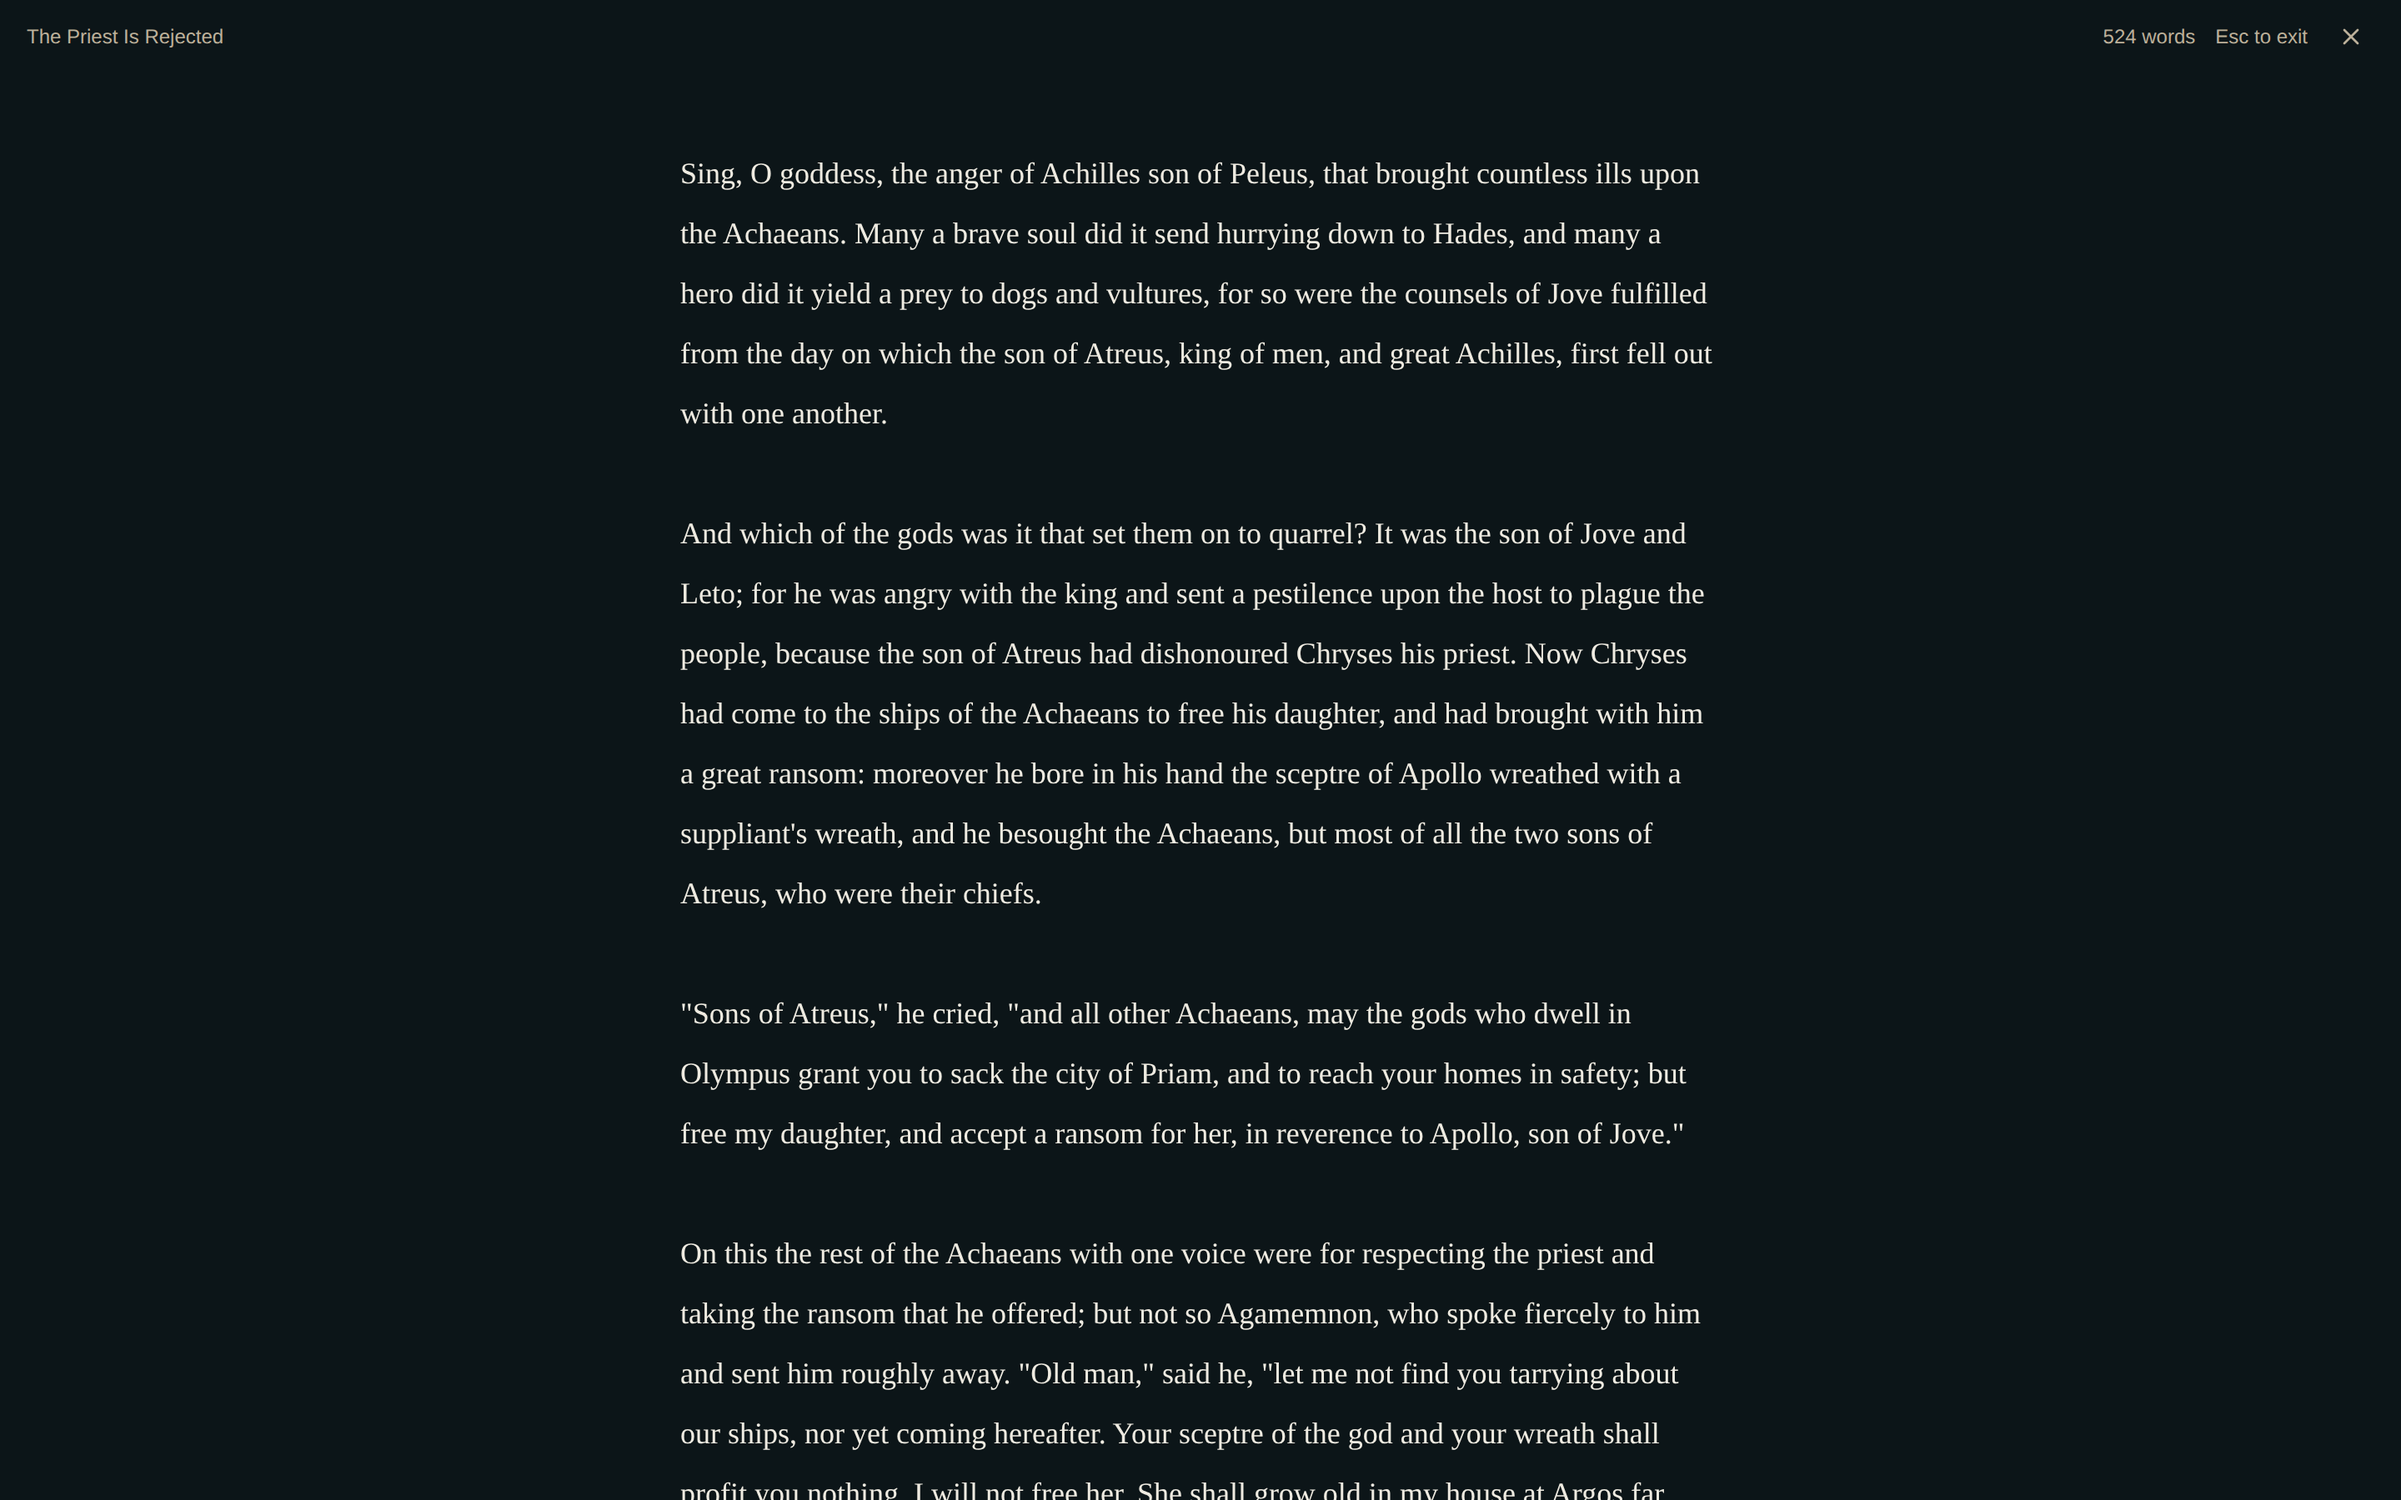
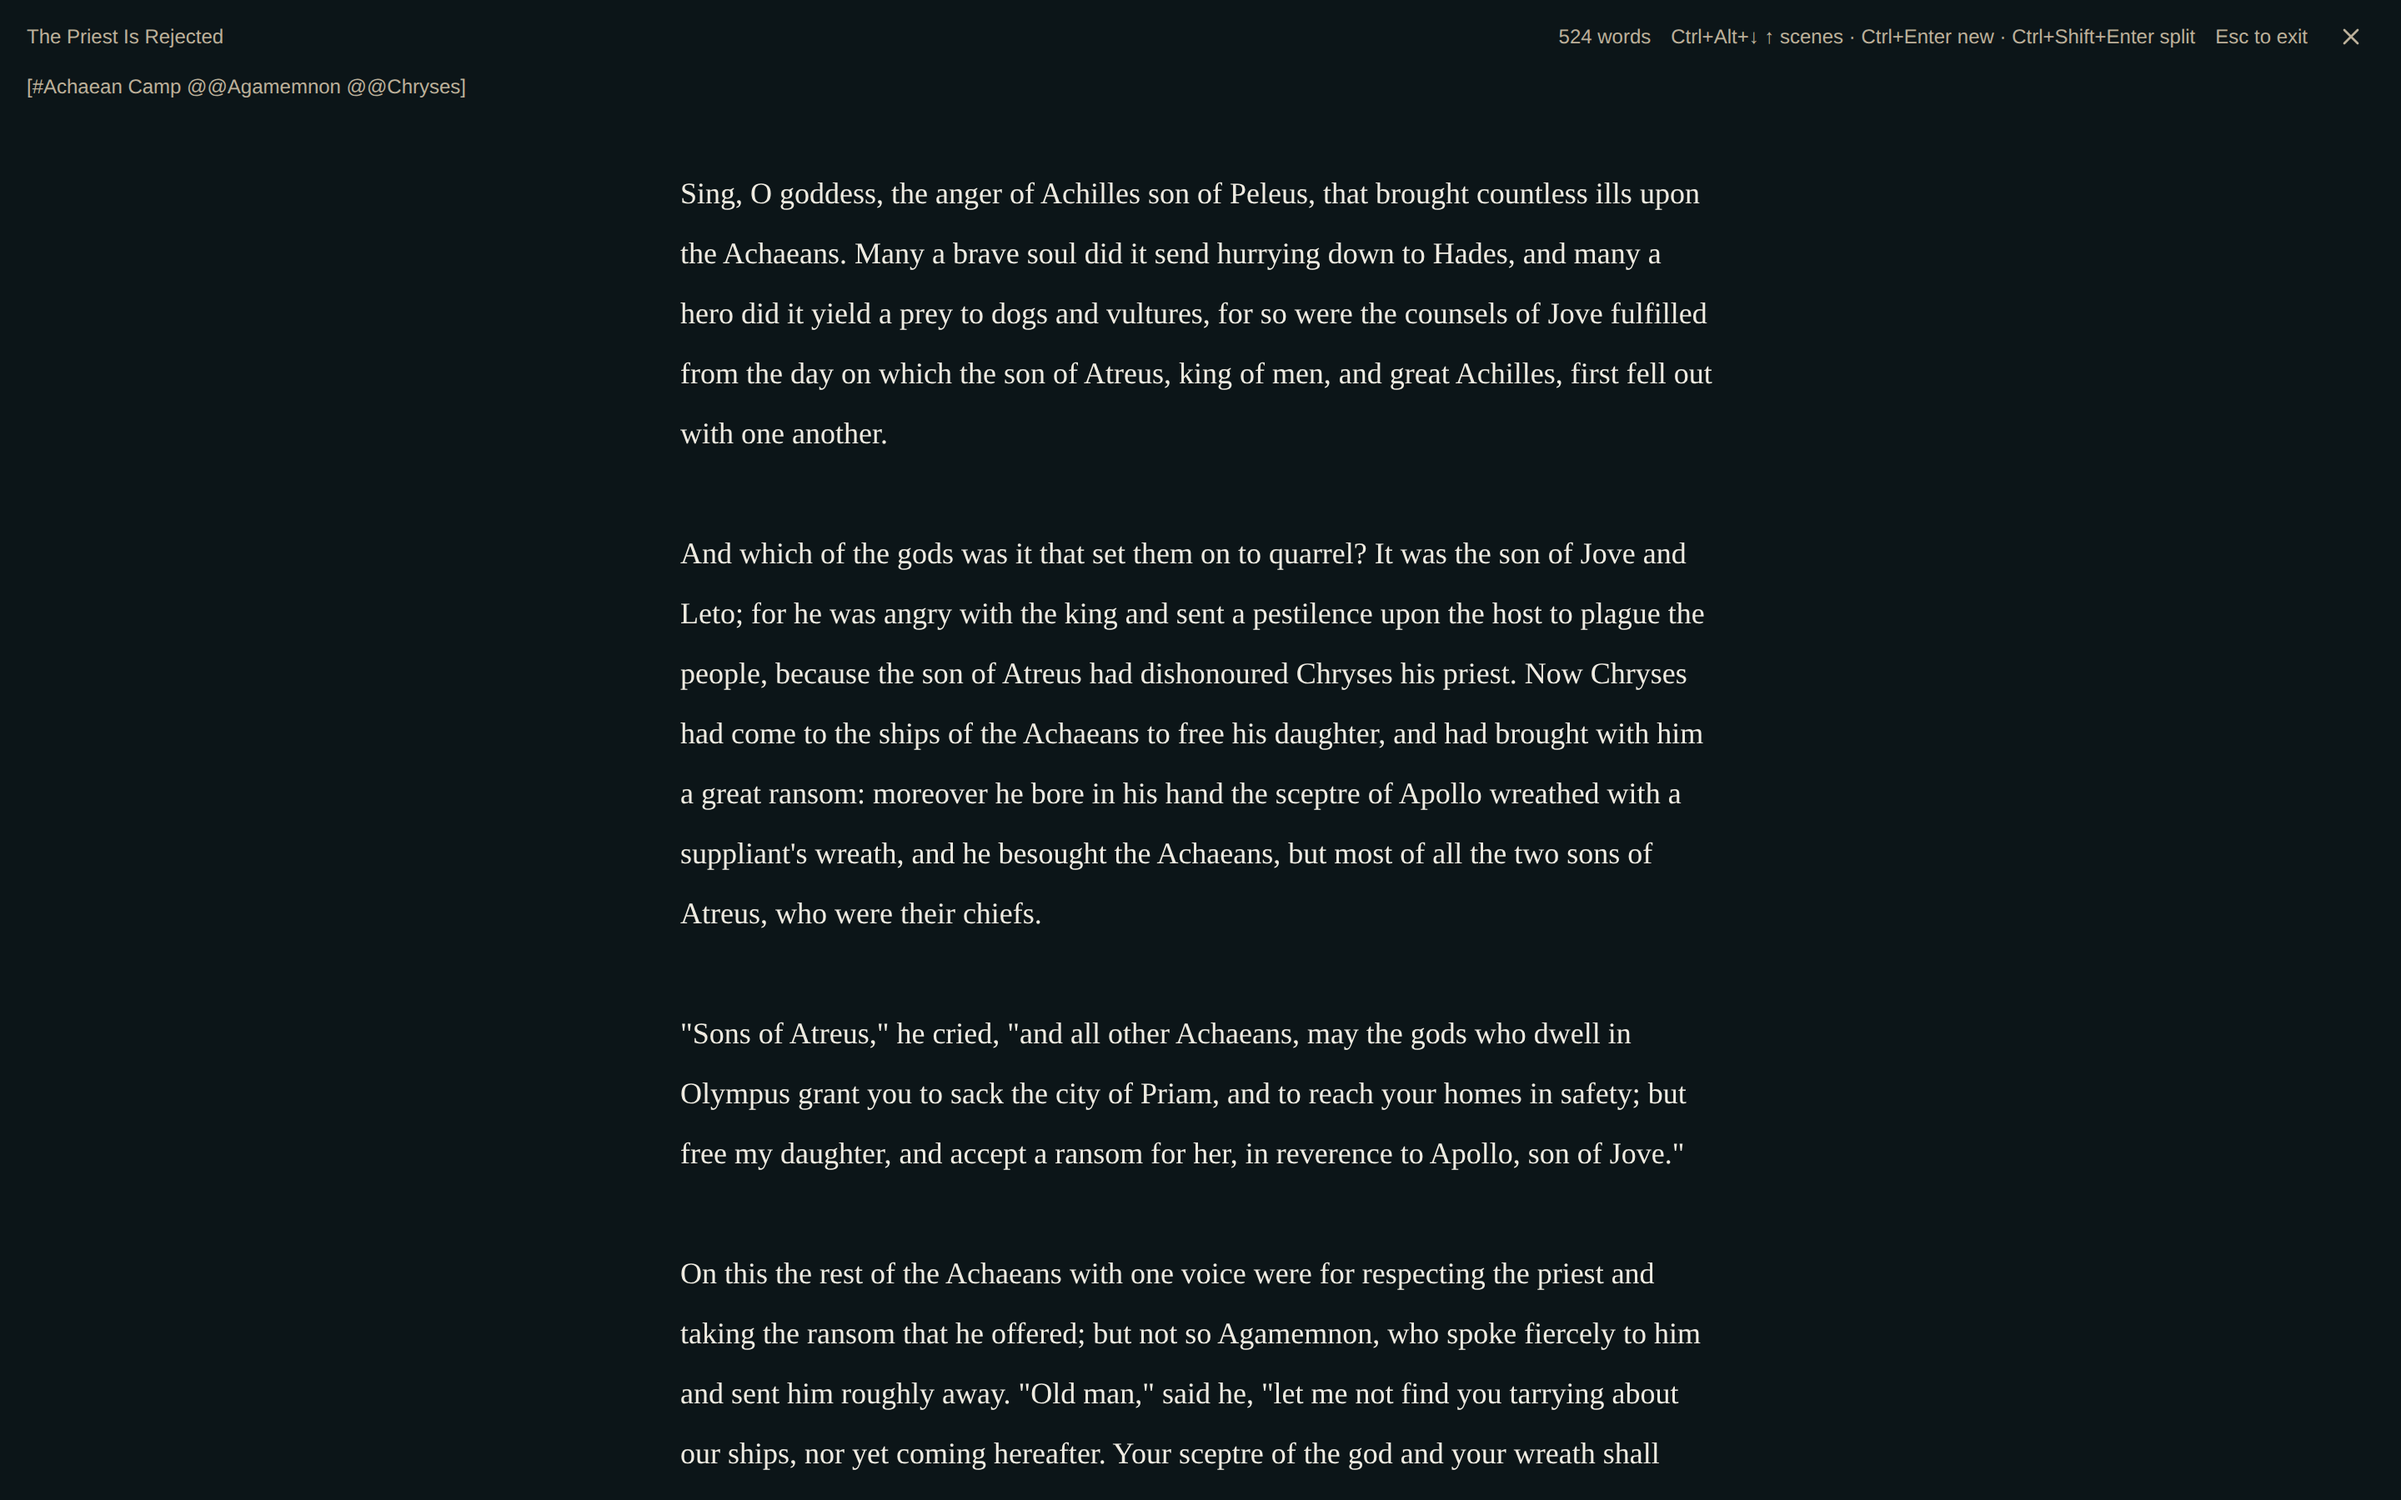
Split and join: the guide, the wiki, the keys in Help, two screenshots
The join dialog's possessive (“…”'s) read badly under a curly quote; it now
names the later scene directly.

Claude-Session: https://claude.ai/code/session_012HJuZ3q12imk2q9iq8d945

diff --git a/src/features/timeline/EventCard.tsx b/src/features/timeline/EventCard.tsx
@@ -656,7 +656,7 @@ export function EventCard({
                 open={joinOpen}
                 onOpenChange={setJoinOpen}
                 title={`Join “${nextTitle || 'the next scene'}” onto ${eventName}?`}
-                description={`Its prose is added to the end of this scene, and it stops being a scene of its own. Who and what is in it joins this one. Where both scenes recorded a state for the same character, item or place, the later one — “${nextTitle || 'the next scene'}”'s — is kept. Undo puts it all back.`}
+                description={`Its prose is added to the end of this scene, and it stops being a scene of its own. Who and what is in it joins this one. Where both scenes recorded a state for the same character, item or place, the one recorded in “${nextTitle || 'the next scene'}” is kept, since it comes later. Undo puts it all back.`}
                 confirmLabel="Join"
                 destructive={false}
                 onConfirm={onJoinNext}

diff --git a/src/features/help/HelpPanel.tsx b/src/features/help/HelpPanel.tsx
@@ -333,6 +333,7 @@ export function HelpPanel() {
               <KbdRow keys={['Ctrl', 'Alt', '↓']} label="Next scene, from inside a scene's draft (⌘⌥↓ on Mac)" />
               <KbdRow keys={['Ctrl', 'Alt', '↑']} label="Previous scene, from inside a scene's draft" />
               <KbdRow keys={['Ctrl', 'Enter']} label="New scene after this one, from inside its draft" />
+              <KbdRow keys={['Ctrl', 'Shift', 'Enter']} label="Split the scene at the caret, from inside its draft" />
               <KbdRow keys={['Alt', '↑ ↓']} label="Move a chapter or scene, in the binder" />
               <KbdRow keys={['Esc']} label="Close panel or dialog" />
               <KbdRow keys={['↑', '↓']} label="Navigate search results / continuity issues" />

diff --git a/docs/GUIDE.md b/docs/GUIDE.md
@@ -903,6 +903,18 @@ inside it.
   same act as dragging it on the [Corkboard](#corkboard), for when you are
   already looking at the scene. The chapter it is in is not offered, since that
   is not a move.
+- **Join with next scene…**, in the same menu, folds the next scene in the
+  chapter into this one: its prose goes on the end after a paragraph break, and
+  whoever and whatever was in it is in this one. It asks first. The character
+  states recorded at the next scene move here with it — where both scenes
+  recorded one for the same character, item or place, the later is kept, since
+  the joined scene ends where the next one ended — and anything that pointed at
+  it, a goal's end or a thread's resolution, points here. **One Undo parts them
+  again**, prose and states and all, and so does one Undo of a split. Each keeps
+  the scene's text from before in its History too. The last scene of a chapter
+  has nothing to join.
+
+  ![Joining a scene onto the one before it: the dialog names both scenes, and says the later state is kept](images/71-join-scene.png)
 - **Deleting is always one step in.** A chapter row, a scene card, a character's
   header and a lore card each carry a **⋯** menu, and delete lives inside it,
   set apart and in red. Nothing destructive sits in the row beside the everyday
@@ -1126,6 +1138,7 @@ prose:
 | **Ctrl+Alt+↓** (⌘⌥↓ on a Mac) | The next scene: this one is saved and folds away, the next one opens — in the next chapter, if this was the last scene of its chapter — and the caret is at the start of its prose, just under the line saying who is there |
 | **Ctrl+Alt+↑** (⌘⌥↑) | The previous scene, with the caret at the end of it, as if the two were one text |
 | **Ctrl+Enter** (⌘Enter) | **A new scene after this one.** Type its title on the line that appears where it will sit and press Enter, and you are in its empty draft; Escape takes you back to where you were |
+| **Ctrl+Shift+Enter** (⌘⇧Enter) | **Split the scene here.** Everything after the caret becomes a new scene straight after this one: give it a title, press Enter, and you are writing in it. It starts in the same room with the same people — the line at the top of its draft says so — and the same status, threads and tags |
 
 ![Ctrl+Enter in a scene's draft: the new scene's title, typed where it will sit](images/69-scene-keys.png)
 
@@ -1496,6 +1509,14 @@ set a [daily goal](#writing-progress) a thin bar at the bottom fills toward it.
 
 It autosaves as you write (so scene history and the writing log keep working);
 press **Esc** or click the ✕ to drop back to the scene.
+
+**The scene keys work here too**, so Focus mode is not one scene deep.
+**Ctrl+Alt+↓ / ↑** (⌘⌥ on a Mac) goes to the next or previous scene and stays
+in Focus mode. **Ctrl+Enter** makes a new scene after this one and
+**Ctrl+Shift+Enter** splits this one at the caret: the title is asked for at
+the top of the page, and the new scene opens in Focus mode. Escape from the
+title goes back to where you were, still in Focus mode. The keys are named in
+the header.
 
 ---
 

diff --git a/docs/wiki/Timeline.md b/docs/wiki/Timeline.md
@@ -94,7 +94,9 @@ Two deliberate limits on `@@` in the prose. It **offers people only**, because p
 
 ### Moving between scenes by key
 
-In a scene's draft, **Ctrl+Alt+↓ / ↑** (⌘⌥ on a Mac) goes to the next or previous scene — saving this one and folding it away, crossing into the next chapter when this was its last scene — with the caret in the new scene's prose: at its start going on, at its end going back. **Ctrl+Enter** (⌘Enter) starts a new scene after this one: type its title where it will sit, press Enter, and you are writing in it; Escape goes back. The time cursor follows. While reading, the arrows go only through what you have reached, and Ctrl+Enter makes nothing.
+In a scene's draft, **Ctrl+Alt+↓ / ↑** (⌘⌥ on a Mac) goes to the next or previous scene — saving this one and folding it away, crossing into the next chapter when this was its last scene — with the caret in the new scene's prose: at its start going on, at its end going back. **Ctrl+Enter** (⌘Enter) starts a new scene after this one: type its title where it will sit, press Enter, and you are writing in it; Escape goes back. **Ctrl+Shift+Enter** (⌘⇧Enter) splits the scene at the caret: the rest becomes a new scene after it, in the same room with the same people. The time cursor follows. While reading, the arrows go only through what you have reached, and Ctrl+Enter and Ctrl+Shift+Enter make nothing.
+
+**Join with next scene…** in a scene's ⋯ menu folds the next scene in the chapter into this one — its prose on the end, its cast in this one, its recorded states moved here (the later kept where both recorded one) and anything pointing at it pointed here. It asks first. One Undo parts them again, as one Undo puts a split back.
 
 Scenes move earlier or later with the ↑ ↓ on their cards; dragging is the [Corkboard](Corkboard)'s.
 

diff --git a/docs/wiki/Keyboard-Shortcuts.md b/docs/wiki/Keyboard-Shortcuts.md
@@ -50,6 +50,7 @@ Chapters and scenes are dragged in the **binder** (below), not in the list; the 
 | **Ctrl+Alt+↓** (⌘⌥↓) | The next scene — saves this one, opens that one, caret at the start of its prose |
 | **Ctrl+Alt+↑** (⌘⌥↑) | The previous scene, caret at its end |
 | **Ctrl+Enter** (⌘Enter) | A new scene after this one: type its title, Enter, and you are in its draft; Escape goes back |
+| **Ctrl+Shift+Enter** (⌘⇧Enter) | Split the scene at the caret: the rest becomes a new scene after it, with the same room and people |
 
 ### In the binder
 
@@ -129,6 +130,9 @@ Chapters and scenes are dragged in the **binder** (below), not in the list; the 
 | Key | Action |
 |---|---|
 | **Esc** | Leave focus mode and return to the event |
+| **Ctrl+Alt+↓ / ↑** (⌘⌥) | Next or previous scene, staying in focus mode |
+| **Ctrl+Enter** (⌘Enter) | A new scene after this one, titled at the top of the page |
+| **Ctrl+Shift+Enter** (⌘⇧Enter) | Split the scene at the caret, titled at the top of the page |
 
 ---
 

diff --git a/docs/wiki/Manuscript.md b/docs/wiki/Manuscript.md
@@ -93,6 +93,8 @@ Above the scene draft, **Focus** opens a full-screen, distraction-free writing s
 
 It autosaves as you write, so scene history and the writing log keep working. Press **Esc** or click the ✕ to drop back to the event.
 
+The scene keys work in it too: **Ctrl+Alt+↓ / ↑** goes to the next or previous scene without leaving focus mode, and **Ctrl+Enter** / **Ctrl+Shift+Enter** make a new scene after this one or split this one at the caret, asking for the title at the top of the page.
+
 ---
 
 ## Not available while reading
